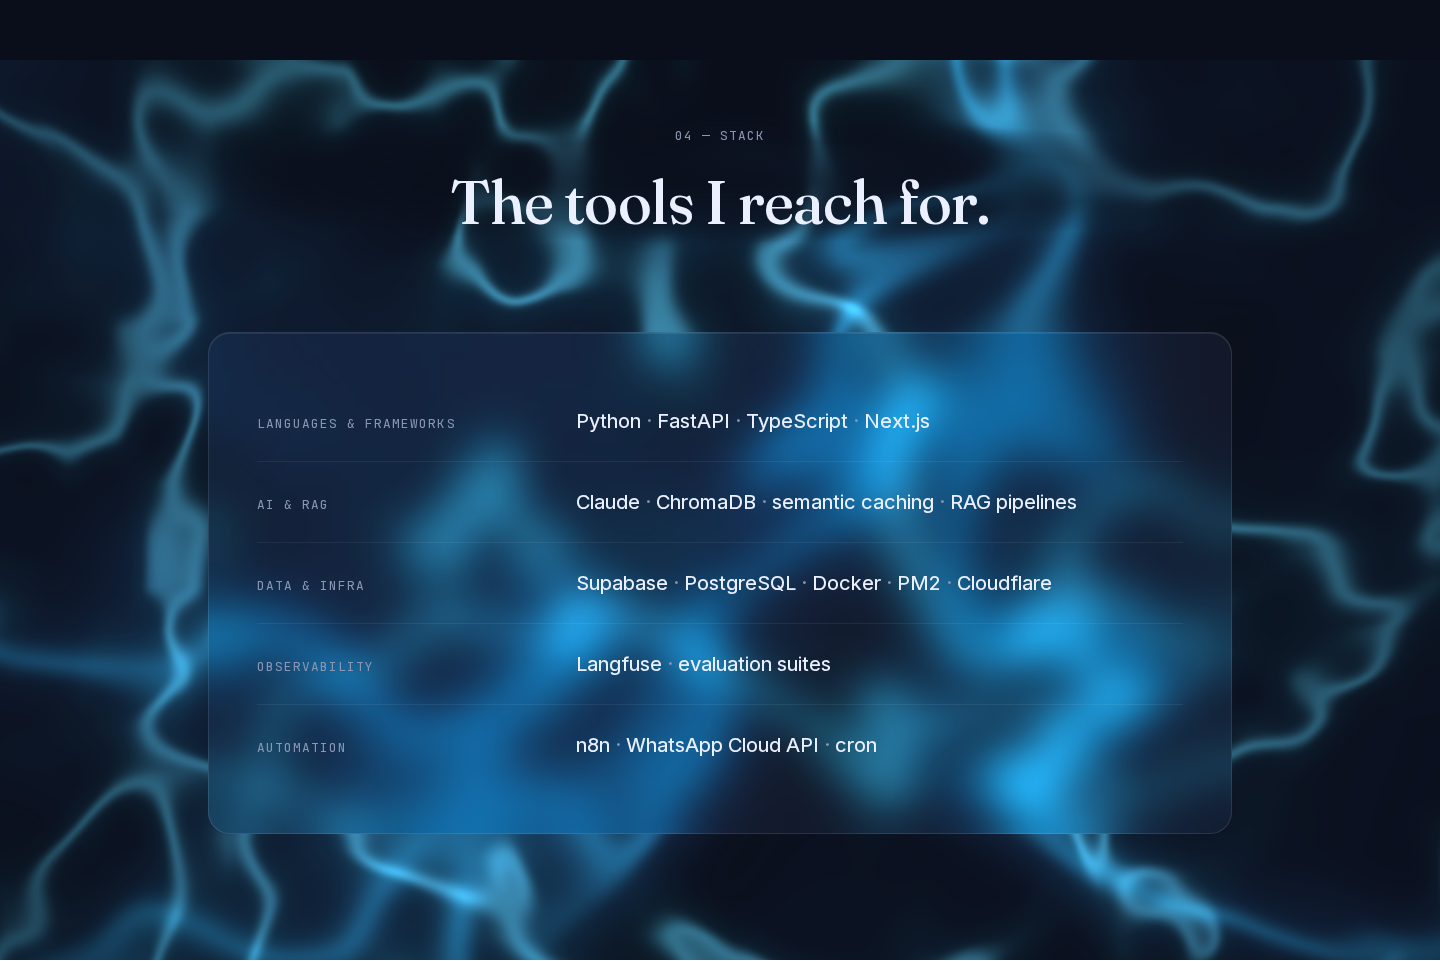
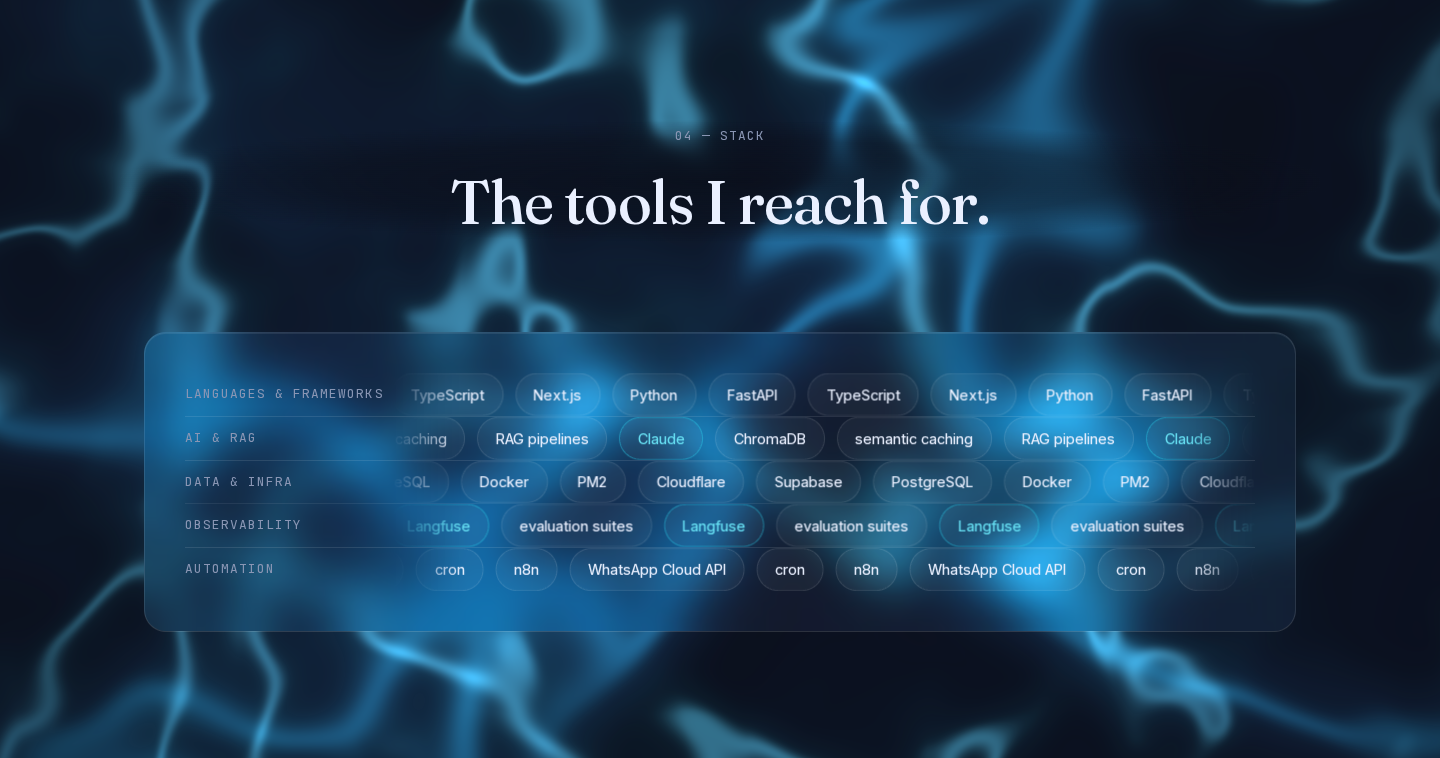
refactor(portfolio-dark): Stack — continuous infinite marquees
- Five category strips as seamless CSS marquees (no JS): track = two
  identical pill groups, group padding-right equals the pill gap so
  translateX(-50%) lands exactly on the seam — no visible jump
- Directions alternate per row (fwd/rev/fwd/rev/fwd); slow premium
  speeds (32-44s/loop), pause on hover; soft mask fade at both edges
- Fixed mono category label left of each strip (stacks above on
  mobile); tools as subtle glass pills, cyan used sparingly (exactly
  Claude + Langfuse); sr-only static list per row for screen readers,
  marquee itself aria-hidden
- prefers-reduced-motion: global guard freezes the animation -> static
  pill rows; internal overflow only — 0 page overflow at 375
- Verified: track transform sampled twice (moving), dirs
  [f,r,f,r,f], captures desktop+mobile, tsc + eslint clean

diff --git a/src/components/portfolio-dark/DarkStack.tsx b/src/components/portfolio-dark/DarkStack.tsx
@@ -1,27 +1,45 @@
 import Reveal from "@/components/portfolio/Reveal";
 
-const GROUPS = [
+type Group = {
+  label: string;
+  tools: string[];
+  /** seconds per loop — slow reads premium */
+  duration: number;
+  reverse?: boolean;
+};
+
+const GROUPS: Group[] = [
   {
     label: "Languages & frameworks",
     tools: ["Python", "FastAPI", "TypeScript", "Next.js"],
+    duration: 40,
   },
   {
     label: "AI & RAG",
     tools: ["Claude", "ChromaDB", "semantic caching", "RAG pipelines"],
+    duration: 44,
+    reverse: true,
   },
   {
     label: "Data & infra",
     tools: ["Supabase", "PostgreSQL", "Docker", "PM2", "Cloudflare"],
+    duration: 38,
   },
   {
     label: "Observability",
     tools: ["Langfuse", "evaluation suites"],
+    duration: 32,
+    reverse: true,
   },
   {
     label: "Automation",
     tools: ["n8n", "WhatsApp Cloud API", "cron"],
+    duration: 36,
   },
 ];
+
+// cyan used sparingly — exactly two keystone tools across all rows
+const ACCENT_TOOLS = new Set(["Claude", "Langfuse"]);
 
 const mono: React.CSSProperties = {
   fontFamily: "var(--font-label)",
@@ -29,6 +47,57 @@ const mono: React.CSSProperties = {
   letterSpacing: "0.08em",
   color: "var(--muted)",
 };
+
+function Pill({ tool }: { tool: string }) {
+  const accent = ACCENT_TOOLS.has(tool);
+  return (
+    <span
+      className="whitespace-nowrap rounded-full border"
+      style={{
+        padding: "0.55rem 1.1rem",
+        fontSize: "0.9rem",
+        fontWeight: 450,
+        background: "var(--surface)",
+        borderColor: accent ? "rgba(34, 211, 238, 0.4)" : "var(--glass-border)",
+        color: accent ? "var(--accent-ink)" : "var(--text)",
+      }}
+    >
+      {tool}
+    </span>
+  );
+}
+
+function MarqueeRow({ group }: { group: Group }) {
+  // enough pills per group to always exceed the viewport width
+  const repeats = Math.ceil(10 / group.tools.length);
+  const pills = Array.from({ length: repeats }, () => group.tools).flat();
+
+  return (
+    <div className="flex flex-col gap-y-[var(--space-3)] py-[var(--space-5)] md:flex-row md:items-center">
+      <span className="flex-none uppercase md:w-[13rem]" style={mono}>
+        {group.label}
+        {/* static list for screen readers — the marquee is decorative motion */}
+        <span className="sr-only">: {group.tools.join(", ")}</span>
+      </span>
+      <div
+        className="pf-marquee min-w-0 flex-1"
+        data-dir={group.reverse ? "reverse" : "forward"}
+        aria-hidden="true"
+        style={{ "--marquee-dur": `${group.duration}s` } as React.CSSProperties}
+      >
+        <div className="pf-marquee-track">
+          {[0, 1].map((copy) => (
+            <div className="pf-marquee-group" key={copy}>
+              {pills.map((t, i) => (
+                <Pill key={`${copy}-${i}`} tool={t} />
+              ))}
+            </div>
+          ))}
+        </div>
+      </div>
+    </div>
+  );
+}
 
 export default function DarkStack() {
   return (
@@ -72,38 +141,14 @@ export default function DarkStack() {
           </Reveal>
         </div>
 
-        {/* Categories — clean text rows in one restrained glass panel */}
+        {/* Five continuous marquees, alternating direction, in one panel */}
         <div
-          className="glass mx-auto mt-[var(--space-16)] max-w-[64rem] rounded-3xl lg:mt-[var(--space-24)]"
-          style={{ padding: "clamp(1.5rem, 4vw, 3rem)" }}
+          className="glass mx-auto mt-[var(--space-16)] max-w-[72rem] rounded-3xl lg:mt-[var(--space-24)]"
+          style={{ padding: "clamp(1.25rem, 3.5vw, 2.5rem)" }}
         >
           {GROUPS.map((g, i) => (
             <Reveal key={g.label} delay={i * 0.06} className={i > 0 ? "border-t" : ""}>
-              <div className="grid grid-cols-1 gap-y-[var(--space-2)] py-[var(--space-6)] md:grid-cols-12 md:items-baseline md:gap-x-[var(--space-8)]">
-                <span className="uppercase md:col-span-4" style={mono}>
-                  {g.label}
-                </span>
-                <p
-                  className="md:col-span-8"
-                  style={{
-                    fontSize: "var(--step-1)",
-                    lineHeight: 1.6,
-                    color: "var(--text)",
-                    fontWeight: 450,
-                  }}
-                >
-                  {g.tools.map((t, j) => (
-                    <span key={t}>
-                      {t}
-                      {j < g.tools.length - 1 && (
-                        <span aria-hidden="true" style={{ color: "var(--muted)" }}>
-                          {" · "}
-                        </span>
-                      )}
-                    </span>
-                  ))}
-                </p>
-              </div>
+              <MarqueeRow group={g} />
             </Reveal>
           ))}
         </div>

diff --git a/src/app/globals.css b/src/app/globals.css
@@ -435,6 +435,38 @@
   color: var(--accent);
 }
 
+/* Stack marquees — seamless infinite strips. Track = two identical groups;
+   group padding-right equals the inter-pill gap, so translateX(-50%) lands
+   exactly on the seam. Reduced motion: the global guard freezes the
+   animation -> static row of pills. */
+.portfolio-dark .pf-marquee {
+  overflow: hidden;
+  -webkit-mask-image: linear-gradient(90deg, transparent, #000 8%, #000 92%, transparent);
+  mask-image: linear-gradient(90deg, transparent, #000 8%, #000 92%, transparent);
+}
+.portfolio-dark .pf-marquee-track {
+  display: flex;
+  width: max-content;
+  animation: pf-marquee var(--marquee-dur, 38s) linear infinite;
+}
+.portfolio-dark .pf-marquee[data-dir="reverse"] .pf-marquee-track {
+  animation-direction: reverse;
+}
+.portfolio-dark .pf-marquee:hover .pf-marquee-track {
+  animation-play-state: paused;
+}
+.portfolio-dark .pf-marquee-group {
+  display: flex;
+  flex: none;
+  gap: 0.75rem;
+  padding-right: 0.75rem;
+}
+@keyframes pf-marquee {
+  to {
+    transform: translateX(-50%);
+  }
+}
+
 /* Work cards share the shine, staggered so they never flash in sync */
 .portfolio-dark .work-card {
   position: relative;
